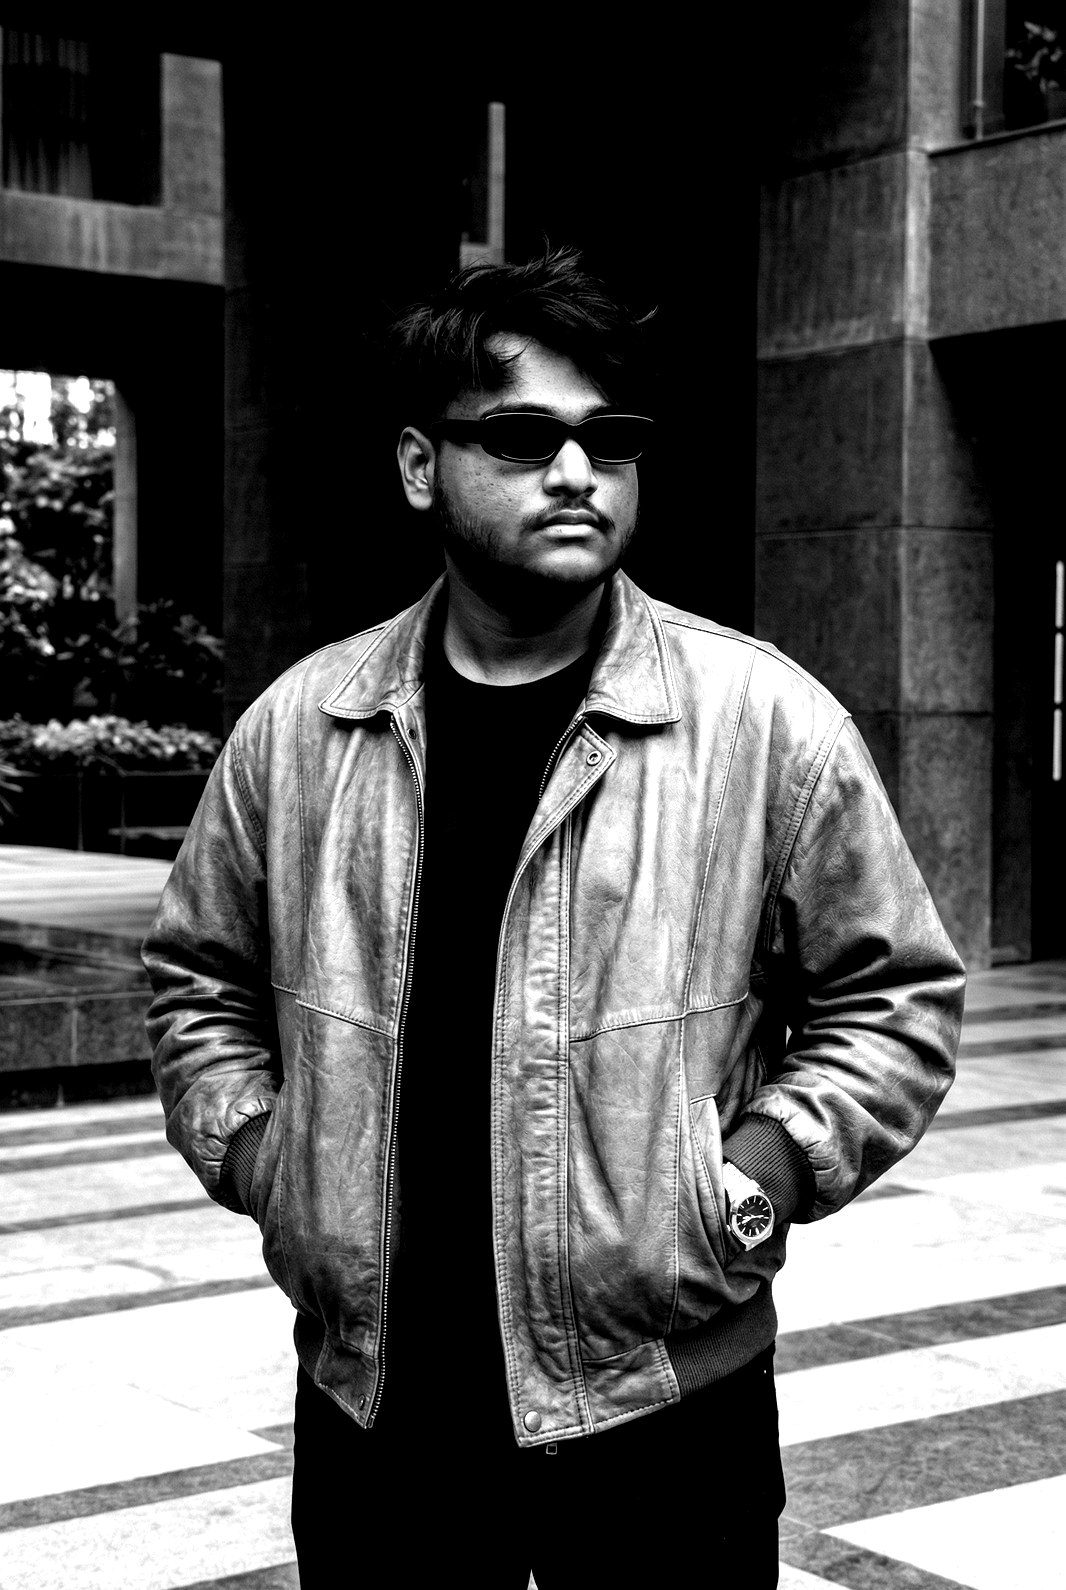
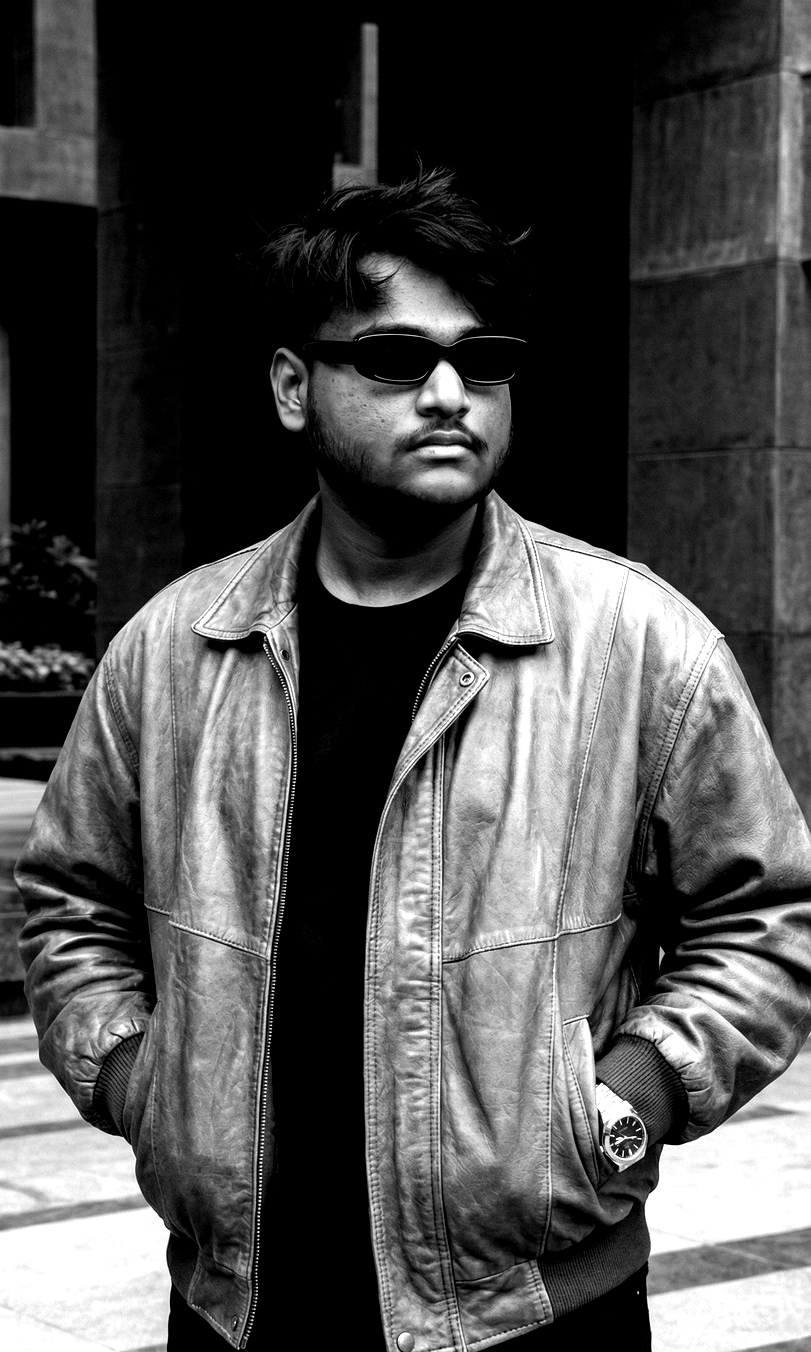
fix: restore dark contribution heatmap, fix neofetch card rendering, isolate portrait subject

diff --git a/scripts/prep_photo.py b/scripts/prep_photo.py
@@ -17,24 +17,40 @@ def prep_image(input_path: str, output_path: str):
     # 1. Load Image
     img = Image.open(input_path).convert("RGBA")
 
-    # 2. Composite on white background and convert to grayscale
-    if img.mode == 'RGBA':
-        white_bg = Image.new("RGBA", img.size, (255, 255, 255, 255))
-        composite = Image.alpha_composite(white_bg, img).convert("L")
-    else:
-        composite = img.convert("L")
-
-    # 3. Apply contrast enhancement
+    # 2. Background removal using rembg if available, or luminance/center mask fallback
+    img_no_bg = None
     try:
-        import cv2
-        img_np = np.array(composite)
-        clahe = cv2.createCLAHE(clipLimit=3.0, tileGridSize=(8, 8))
-        enhanced_np = clahe.apply(img_np)
-        enhanced_img = Image.fromarray(enhanced_np)
-    except Exception:
-        from PIL import ImageEnhance
-        enhancer = ImageEnhance.Contrast(composite)
-        enhanced_img = enhancer.enhance(2.0)
+        import rembg
+        print("[*] Removing photo background with rembg...")
+        img_no_bg = rembg.remove(img)
+    except Exception as e:
+        print(f"[*] rembg fallback ({e}). Applying subject isolation mask...")
+        
+    if img_no_bg is None:
+        # Fallback: Mask out outer background regions and boost center subject contrast
+        w, h = img.size
+        # Crop to center 75% focused on subject (the guy)
+        left = int(w * 0.12)
+        top = int(h * 0.05)
+        right = int(w * 0.88)
+        bottom = int(h * 0.90)
+        img_cropped = img.crop((left, top, right, bottom))
+        
+        # Composite cropped image on white background
+        white_bg = Image.new("RGBA", img_cropped.size, (255, 255, 255, 255))
+        composite = Image.alpha_composite(white_bg, img_cropped).convert("L")
+    else:
+        # Crop tight around subject bounding box
+        bbox = img_no_bg.getbbox()
+        if bbox:
+            img_no_bg = img_no_bg.crop(bbox)
+        white_bg = Image.new("RGBA", img_no_bg.size, (255, 255, 255, 255))
+        composite = Image.alpha_composite(white_bg, img_no_bg).convert("L")
+
+    # 3. Enhance contrast on the guy
+    from PIL import ImageEnhance
+    enhancer = ImageEnhance.Contrast(composite)
+    enhanced_img = enhancer.enhance(1.8)
 
     os.makedirs(os.path.dirname(output_path) if os.path.dirname(output_path) else ".", exist_ok=True)
     enhanced_img.save(output_path)

diff --git a/scripts/render_heatmap_svg.py b/scripts/render_heatmap_svg.py
@@ -4,12 +4,12 @@ import argparse
 from datetime import datetime
 
 PALETTE = [
-    "#061e14",  # Level 0 (Very dark emerald/black for zero contributions)
-    "#0f4c2c",  # Level 1 (Dark forest green)
-    "#1b7a48",  # Level 2 (Medium green)
-    "#28a745",  # Level 3 (Vibrant green)
-    "#34d058",  # Level 4 (Bright green)
-    "#46ea76"   # Level 5 (Lime top end)
+    "#161b22",  # Level 0 (None - dark gray tile)
+    "#0e4429",  # Level 1
+    "#006d32",  # Level 2
+    "#26a641",  # Level 3
+    "#39d353",  # Level 4
+    "#69f0a0"   # Level 5
 ]
 
 MONTH_NAMES = ["Jan", "Feb", "Mar", "Apr", "May", "Jun", "Jul", "Aug", "Sep", "Oct", "Nov", "Dec"]
@@ -99,10 +99,11 @@ def render_svg(data_path: str, output_path: str):
 
     svg_content = f'''<svg xmlns="http://www.w3.org/2000/svg" viewBox="0 0 {width} {height}" width="{width}" height="{height}">
   <style>
-    .title {{ font-family: ui-monospace, SFMono-Regular, Menlo, Consolas, monospace; font-size: 13px; fill: #0969da; font-weight: bold; }}
-    .label {{ font-family: -apple-system, BlinkMacSystemFont, "Segoe UI", Roboto, sans-serif; font-size: 10px; fill: #57606a; font-weight: 500; }}
-    .stats {{ font-family: ui-monospace, SFMono-Regular, Menlo, Consolas, monospace; font-size: 11px; fill: #57606a; }}
-    .accent {{ fill: #28a745; font-weight: bold; }}
+    .bg {{ fill: #0d1117; stroke: #30363d; stroke-width: 1px; rx: 10px; }}
+    .title {{ font-family: ui-monospace, SFMono-Regular, Menlo, Consolas, monospace; font-size: 13px; fill: #58a6ff; font-weight: bold; }}
+    .label {{ font-family: -apple-system, BlinkMacSystemFont, "Segoe UI", Roboto, sans-serif; font-size: 10px; fill: #8b949e; }}
+    .stats {{ font-family: ui-monospace, SFMono-Regular, Menlo, Consolas, monospace; font-size: 11px; fill: #c9d1d9; }}
+    .accent {{ fill: #39d353; font-weight: bold; }}
 
     .day-box {{
       opacity: 0;
@@ -118,6 +119,9 @@ def render_svg(data_path: str, output_path: str):
       }}
     }}
   </style>
+
+  <!-- Background container -->
+  <rect width="100%" height="100%" class="bg" />
 
   <!-- Month Header Labels -->
   {''.join(month_labels_svg)}

diff --git a/scripts/make_info_card.py b/scripts/make_info_card.py
@@ -26,34 +26,27 @@ def generate_info_card(output_path: str):
     line_spacing = 24
 
     for idx, (label, val, col, is_bold) in enumerate(lines):
-        delay = round(0.08 + (idx * 0.05), 2)
-        smil_anim = f'<animate attributeName="opacity" from="0" to="1" begin="{delay}s" dur="0.35s" fill="freeze" />'
-        
         if label.startswith("sep"):
             lines_svg.append(f'''
-    <g opacity="0">
-      {smil_anim}
+    <g>
       <text x="22" y="{y_pos}" class="sep-text">{val}</text>
     </g>''')
             y_pos += 20
         elif label.startswith("hl"):
             lines_svg.append(f'''
-    <g opacity="0">
-      {smil_anim}
+    <g>
       <text x="22" y="{y_pos}" class="hl-text" fill="{col}">{val}</text>
     </g>''')
             y_pos += 22
         elif label == "user":
             lines_svg.append(f'''
-    <g opacity="0">
-      {smil_anim}
+    <g>
       <text x="22" y="{y_pos}" class="user-text">{val}</text>
     </g>''')
             y_pos += 24
         else:
             lines_svg.append(f'''
-    <g opacity="0">
-      {smil_anim}
+    <g>
       <text x="22" y="{y_pos}" class="key-text">{label}</text>
       <text x="110" y="{y_pos}" class="val-text" fill="{col}">{val}</text>
     </g>''')
